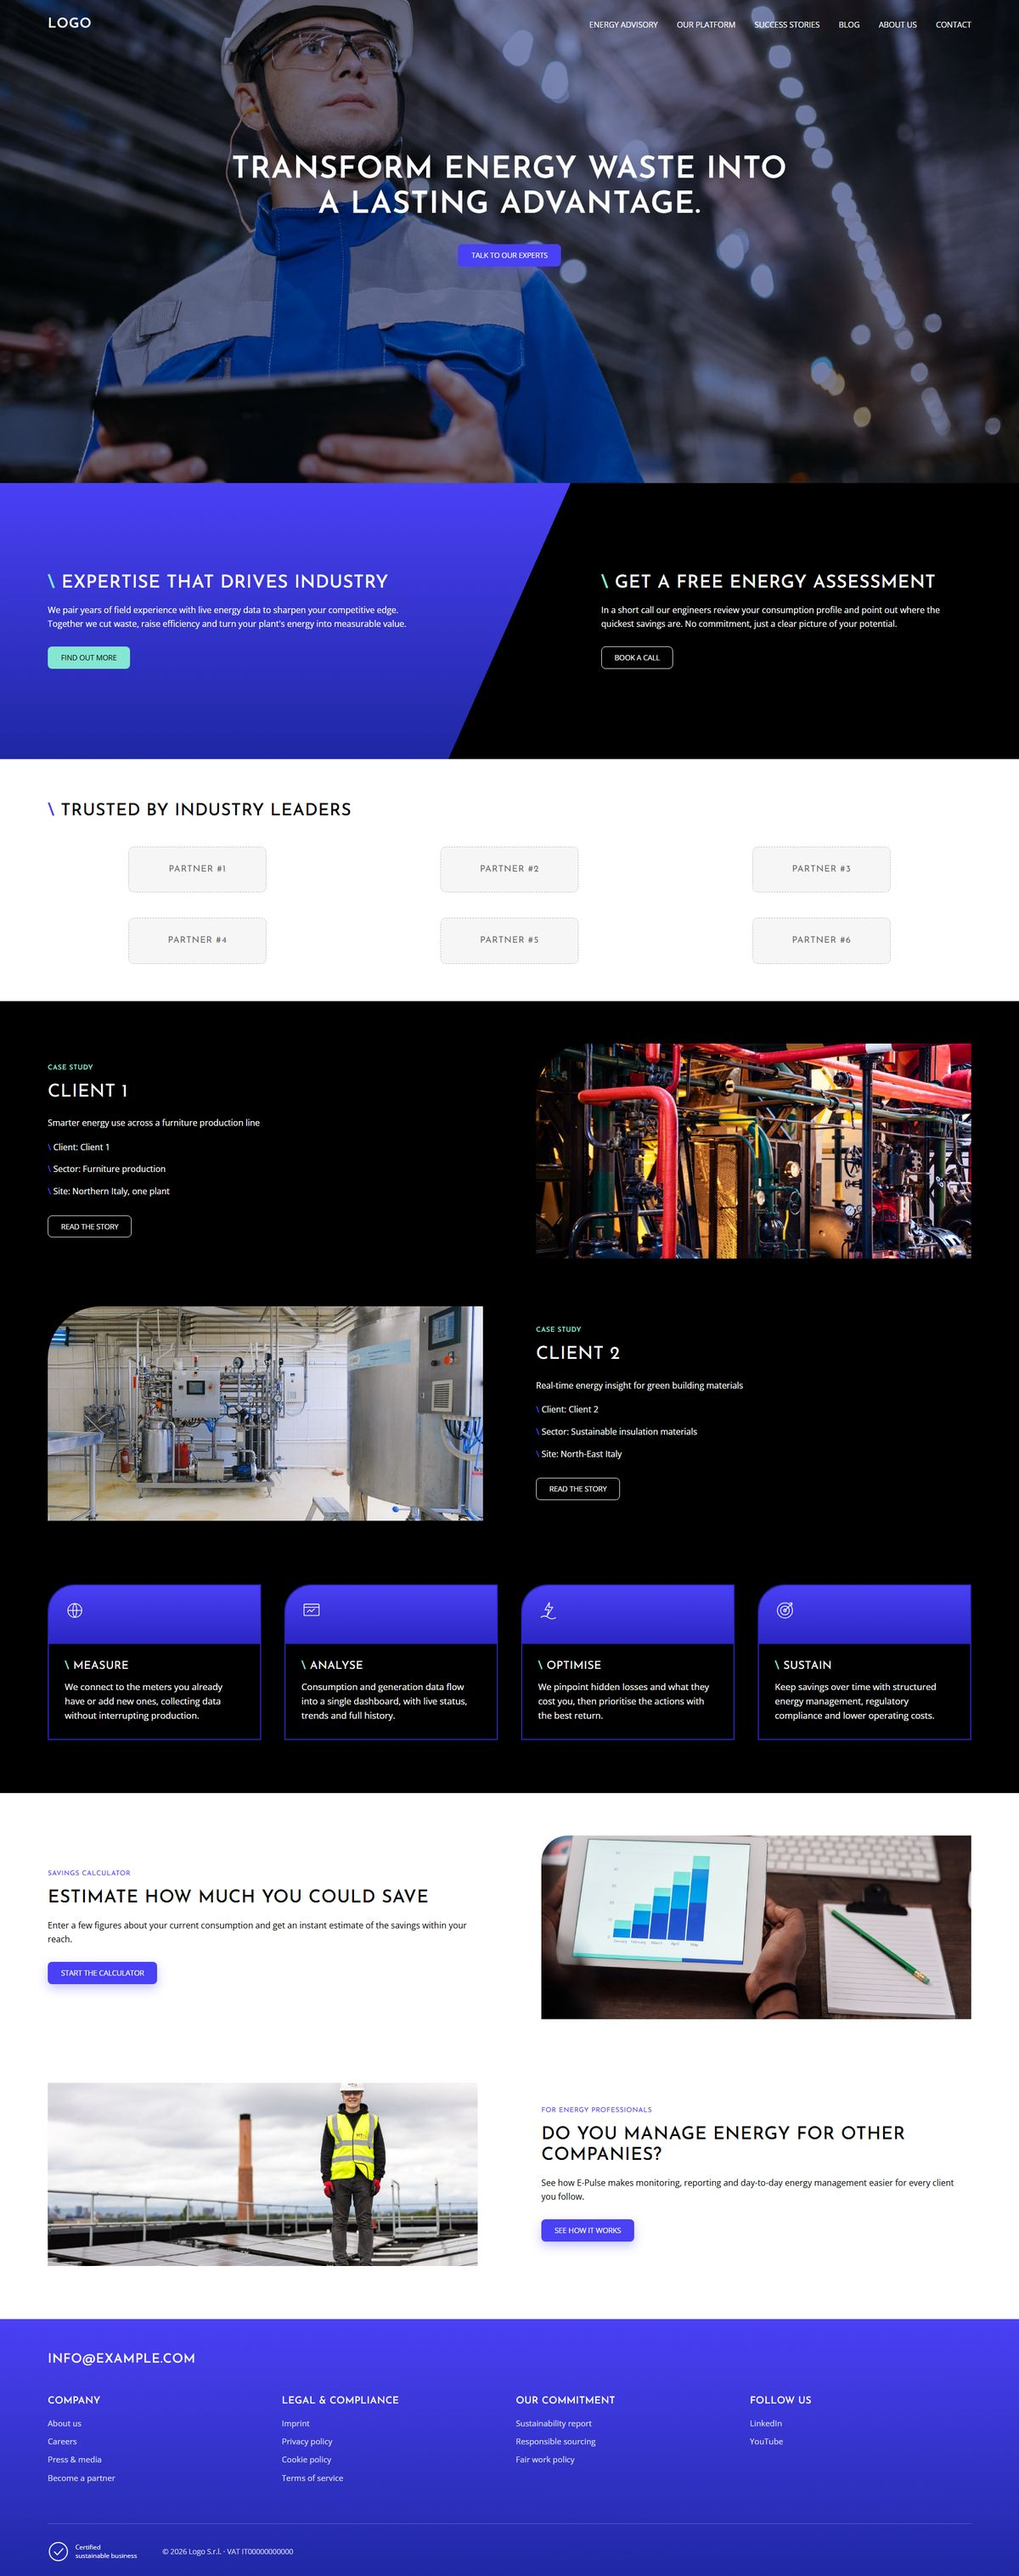
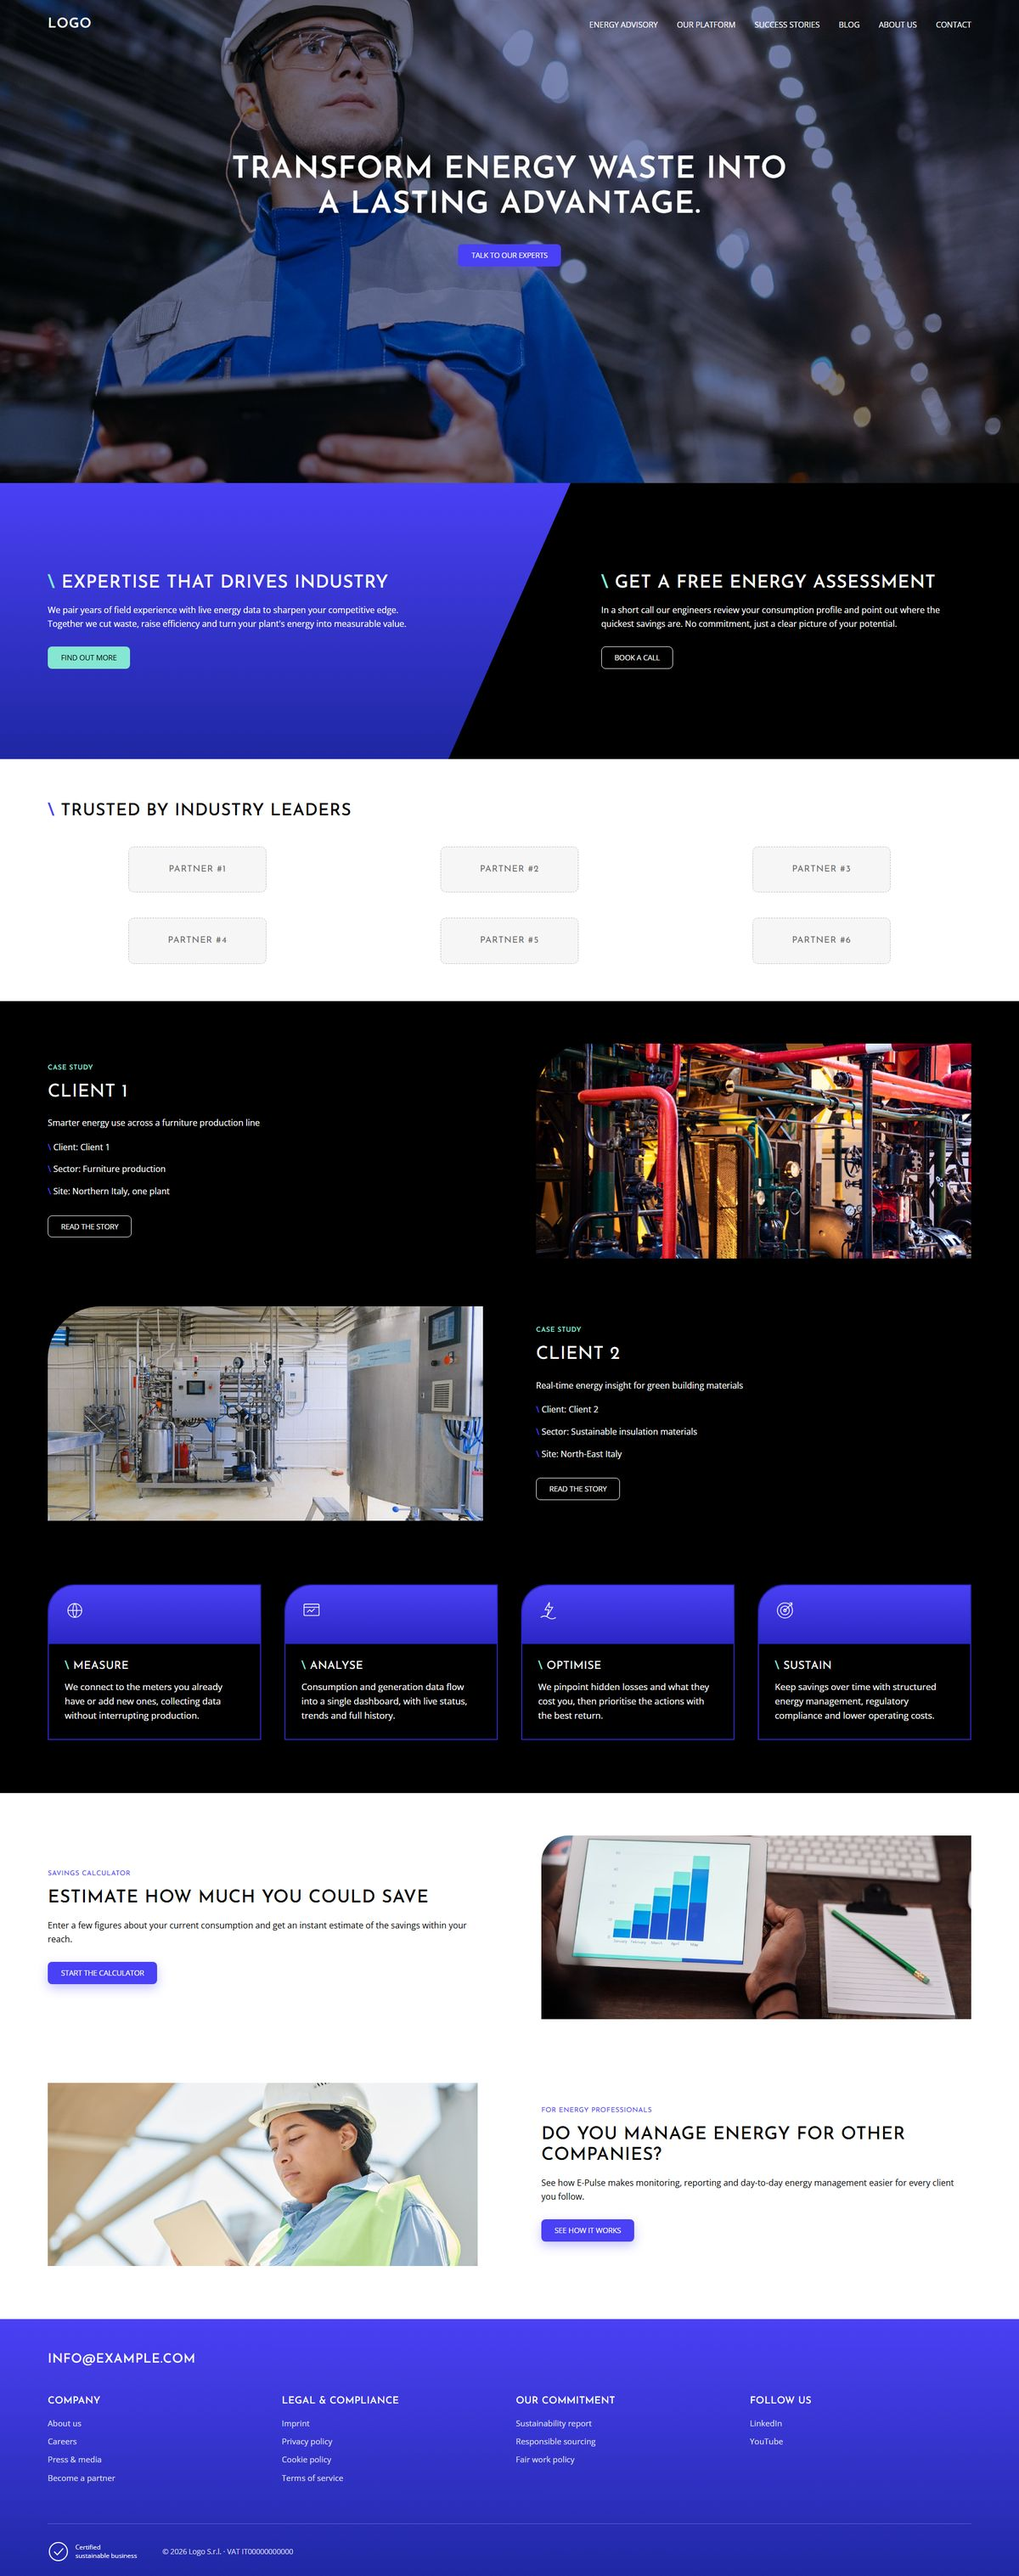
Energy demo: hard-hat engineer photo for the energy professionals block

Changed region(s): [[0.0308, 0.8058, 0.4933, 0.8988]]

diff --git a/energia/assets/css/main.css b/energia/assets/css/main.css
@@ -1,1 +1,1 @@
-*,*::before,*::after{box-sizing:border-box}html{scroll-behavior:smooth}body{margin:0;background:#fff;color:#000;font:400 16px/1.6 "Open Sans",system-ui,sans-serif;-webkit-font-smoothing:antialiased}img{display:block;max-width:100%;height:auto}a{color:inherit}h1,h2,h3{margin:0;font-family:"Josefin Sans",sans-serif;font-weight:500;text-transform:uppercase;letter-spacing:.02em;line-height:1.15}.btn{position:relative;z-index:0;display:inline-flex;align-items:center;overflow:hidden;padding:13px 24px;border:1px solid rgba(0,0,0,0);border-radius:8px;font:400 .85rem/1 "Open Sans",system-ui,sans-serif;text-transform:uppercase;text-decoration:none;transition:transform .3s ease,color .3s ease,background-color .3s ease,border-color .3s ease}.btn::before{content:"";position:absolute;inset:0;z-index:-1;background:linear-gradient(90deg, #85e6d1, #5420ff);opacity:0;transition:opacity .5s}.btn::after{content:"\11 92";display:inline-block;width:0;overflow:hidden;opacity:0;transition:width .3s ease,opacity .3s ease,transform .3s ease}.btn:hover{transform:scale(1.05)}.btn:hover::after{width:20px;opacity:1;transform:translateX(10px)}.btn--violet{background:#4a40f5;color:#fff;box-shadow:0 8px 20px rgba(74,64,245,.3)}.btn--violet:hover{color:#fff}.btn--violet:hover::before{opacity:1}.btn--teal{background:#85e6d1;color:#000}.btn--teal:hover{color:#fff}.btn--teal:hover::before{opacity:1}.btn--outline,.btn--ghost{border-color:#fff;background:rgba(0,0,0,0);color:#fff}.btn--outline::before,.btn--ghost::before{display:none}.btn--outline:hover,.btn--ghost:hover{border-color:#85e6d1;background:#85e6d1;color:#000}.slash::before{content:"\\ ";color:#85e6d1;font-weight:600}.slash--violet::before{color:#4a40f5}.kicker{display:block;margin-bottom:20px;font:600 .8rem/1 "Josefin Sans",sans-serif;letter-spacing:.04em;text-transform:uppercase;color:#85e6d1}.kicker--violet{color:#4a40f5;font-weight:400}.header{position:absolute;inset:0 0 auto;z-index:10;color:#fff}.header__inner{display:flex;align-items:center;justify-content:space-between;padding:28px clamp(20px,4.7vw,90px)}.header__toggle{display:flex;flex-direction:column;gap:5px;padding:10px;border:0;background:none;cursor:pointer}.header__toggle span{width:24px;height:2px;background:#fff}@media(min-width: 1100px){.header__toggle{display:none}}.header__nav{display:none;position:absolute;top:90px;left:0;right:0;flex-direction:column;padding:12px clamp(20px,4.7vw,90px) 20px;background:rgba(0,0,0,.92)}.header__nav.is-open{display:flex}@media(min-width: 1100px){.header__nav{display:flex;position:static;flex-direction:row;gap:36px;padding:0;background:none}}.header__nav a{padding:8px 0;font:400 .92rem "Open Sans",system-ui,sans-serif;text-transform:uppercase;text-decoration:none}.header__nav a:hover{color:#85e6d1}.logo{font:600 1.6rem/1 "Josefin Sans",sans-serif;letter-spacing:.04em;text-transform:uppercase;text-decoration:none}.hero{display:flex;flex-direction:column;align-items:center;justify-content:center;gap:40px;min-height:600px;padding:140px 20px 80px;text-align:center;color:#fff;background:linear-gradient(rgba(10, 30, 110, 0.55), rgba(10, 30, 110, 0.55)),url("../img/hero.jpg") center 30%/cover;background-blend-mode:multiply}@media(min-width: 1100px){.hero{min-height:910px;padding-bottom:260px}}.hero h1{font-size:clamp(2rem,4.2vw,3.6rem);font-weight:600;text-shadow:0 2px 20px rgba(0,0,0,.3)}.insight{display:grid;background:#000}@media(min-width: 1100px){.insight{grid-template-columns:1fr 1fr;min-height:520px}}.insight__panel{display:flex;flex-direction:column;justify-content:center;align-items:flex-start;padding:64px clamp(20px,4.7vw,90px);background:linear-gradient(180deg, #4a40f5, #1e27a2);color:#fff}@media(min-width: 1100px){.insight__panel{grid-column:1/3;grid-row:1;width:56%;padding-right:calc(12% + 3vw);clip-path:polygon(0 0, 100% 0, 78.57% 100%, 0 100%)}}.insight__panel h2{margin-bottom:18px;font-size:clamp(1.5rem,2.2vw,2.1rem)}.insight__panel p{margin:0 0 30px;font-size:1rem}.insight__cta{display:flex;flex-direction:column;justify-content:center;align-items:flex-start;gap:28px;padding:56px clamp(20px,4.7vw,90px)}@media(min-width: 1100px){.insight__cta{grid-column:1/3;grid-row:1;padding:0 clamp(20px,4.7vw,90px) 0 calc(56% + 3vw)}}.insight__cta{color:#fff}.insight__cta h2{font-size:clamp(1.5rem,2.2vw,2.1rem)}.insight__cta p{margin:-10px 0 2px;font-size:1rem}.clients{padding:80px clamp(20px,4.7vw,90px) 70px}.clients h2{margin-bottom:48px;font-size:clamp(1.4rem,2vw,2rem)}.clients__grid{display:grid;grid-template-columns:repeat(2, 1fr);gap:48px 24px;margin:0;padding:0;list-style:none}@media(min-width: 768px){.clients__grid{grid-template-columns:repeat(3, 1fr)}}.partner{display:grid;place-items:center;width:100%;max-width:260px;aspect-ratio:3/1;margin:0 auto;border:1.5px dashed #bdbdbd;border-radius:10px;background:#f6f6f6;font:400 1.05rem/1 "Josefin Sans",sans-serif;letter-spacing:.06em;text-transform:uppercase;color:#6b6b6b}.cases{display:grid;gap:90px;padding:80px clamp(20px,4.7vw,90px) 40px;background:#000;color:#fff}.case{display:grid;gap:32px;align-items:center}@media(min-width: 1100px){.case{grid-template-columns:1fr 1fr;gap:100px}}.case h3{margin-bottom:26px;font-size:2.1rem;font-weight:400}.case p{margin:0 0 20px}.case ul{margin:0 0 32px;padding:0;list-style:none}.case li{margin-bottom:16px}.case li::before{content:"\\ ";color:#4a40f5;font-weight:700}.case__img{width:100%;aspect-ratio:770/380;object-fit:cover;border-top-left-radius:100px}@media(min-width: 1100px){.case--reverse .case__text{order:2}}.case--reverse .kicker{margin-bottom:20px}.process{padding:80px clamp(20px,4.7vw,90px) 100px;background:#000;color:#fff}.process>h2{margin-bottom:18px;font-size:clamp(1.4rem,2vw,2rem)}.process>p{margin:0 0 30px}.process__grid{display:grid;gap:44px;margin-top:0}@media(min-width: 768px){.process__grid{grid-template-columns:repeat(2, 1fr)}}@media(min-width: 1100px){.process__grid{grid-template-columns:repeat(4, 1fr)}}.step{border:2px solid #2a26c4;border-top-left-radius:50px;overflow:hidden}.step__head{height:110px;padding:28px 30px;background:linear-gradient(180deg, #4a40f5, #2a26c4)}.step__head svg{width:38px;height:38px;fill:none;stroke:#fff;stroke-width:1.3}.step h3{margin:30px 30px 14px;font-size:1.3rem;font-weight:400}.step p{margin:0 30px 30px;font-size:1.05rem}.feature{display:grid;gap:36px;align-items:center;padding:80px clamp(20px,4.7vw,90px) 40px}@media(min-width: 1100px){.feature{grid-template-columns:1fr 1fr;gap:120px}}.feature h2{margin-bottom:20px;font-size:clamp(1.5rem,2.2vw,2.1rem)}.feature p{max-width:800px;margin:0 0 30px;font-size:1rem}.feature__img{width:100%;aspect-ratio:820/350;object-fit:cover;border-top-left-radius:50px}.feature--reverse{padding-bottom:100px}@media(min-width: 1100px){.feature--reverse .feature__text{order:2}}.feature--reverse .feature__img{border-radius:0}span.btn{cursor:default}.footer{padding:64px clamp(20px,4.7vw,90px) 40px;background:linear-gradient(180deg, #4a40f5, #1e27a2);color:#fff}.footer__top{display:flex;flex-wrap:wrap;align-items:center;justify-content:space-between;gap:20px;margin-bottom:56px}.footer__mail{font:500 clamp(1.1rem, 1.6vw, 1.5rem)/1 "Josefin Sans",sans-serif;text-transform:uppercase;letter-spacing:.03em}.footer__cols{display:grid;gap:40px 24px}@media(min-width: 768px){.footer__cols{grid-template-columns:repeat(2, 1fr)}}@media(min-width: 1100px){.footer__cols{grid-template-columns:repeat(4, 1fr)}}.footer__cols h2{margin-bottom:18px;font-size:1.15rem;font-weight:500}.footer__cols ul{margin:0;padding:0;list-style:none}.footer__cols li{margin-bottom:10px;font-size:.95rem;color:rgba(255,255,255,.85)}.footer__bottom{display:grid;gap:32px;align-items:center;margin-top:64px;padding-top:32px;border-top:1px solid rgba(255,255,255,.25)}@media(min-width: 1100px){.footer__bottom{grid-template-columns:auto 1fr;gap:48px}}.footer__bottom>p{margin:0;font-size:.85rem;color:rgba(255,255,255,.8)}.footer__badge{display:flex;align-items:center;gap:12px;font-size:.75rem;line-height:1.3}.footer__badge svg{width:40px;height:40px;fill:none;stroke:#fff;stroke-width:2}
+*,*::before,*::after{box-sizing:border-box}html{scroll-behavior:smooth}body{margin:0;background:#fff;color:#000;font:400 16px/1.6 "Open Sans",system-ui,sans-serif;-webkit-font-smoothing:antialiased}img{display:block;max-width:100%;height:auto}a{color:inherit}h1,h2,h3{margin:0;font-family:"Josefin Sans",sans-serif;font-weight:500;text-transform:uppercase;letter-spacing:.02em;line-height:1.15}.btn{position:relative;z-index:0;display:inline-flex;align-items:center;overflow:hidden;padding:13px 24px;border:1px solid rgba(0,0,0,0);border-radius:8px;font:400 .85rem/1 "Open Sans",system-ui,sans-serif;text-transform:uppercase;text-decoration:none;transition:transform .3s ease,color .3s ease,background-color .3s ease,border-color .3s ease}.btn::before{content:"";position:absolute;inset:0;z-index:-1;background:linear-gradient(90deg, #85e6d1, #5420ff);opacity:0;transition:opacity .5s}.btn::after{content:"\11 92";display:inline-block;width:0;overflow:hidden;opacity:0;transition:width .3s ease,opacity .3s ease,transform .3s ease}.btn:hover{transform:scale(1.05)}.btn:hover::after{width:20px;opacity:1;transform:translateX(10px)}.btn--violet{background:#4a40f5;color:#fff;box-shadow:0 8px 20px rgba(74,64,245,.3)}.btn--violet:hover{color:#fff}.btn--violet:hover::before{opacity:1}.btn--teal{background:#85e6d1;color:#000}.btn--teal:hover{color:#fff}.btn--teal:hover::before{opacity:1}.btn--outline,.btn--ghost{border-color:#fff;background:rgba(0,0,0,0);color:#fff}.btn--outline::before,.btn--ghost::before{display:none}.btn--outline:hover,.btn--ghost:hover{border-color:#85e6d1;background:#85e6d1;color:#000}.slash::before{content:"\\ ";color:#85e6d1;font-weight:600}.slash--violet::before{color:#4a40f5}.kicker{display:block;margin-bottom:20px;font:600 .8rem/1 "Josefin Sans",sans-serif;letter-spacing:.04em;text-transform:uppercase;color:#85e6d1}.kicker--violet{color:#4a40f5;font-weight:400}.header{position:absolute;inset:0 0 auto;z-index:10;color:#fff}.header__inner{display:flex;align-items:center;justify-content:space-between;padding:28px clamp(20px,4.7vw,90px)}.header__toggle{display:flex;flex-direction:column;gap:5px;padding:10px;border:0;background:none;cursor:pointer}.header__toggle span{width:24px;height:2px;background:#fff}@media(min-width: 1100px){.header__toggle{display:none}}.header__nav{display:none;position:absolute;top:90px;left:0;right:0;flex-direction:column;padding:12px clamp(20px,4.7vw,90px) 20px;background:rgba(0,0,0,.92)}.header__nav.is-open{display:flex}@media(min-width: 1100px){.header__nav{display:flex;position:static;flex-direction:row;gap:36px;padding:0;background:none}}.header__nav a{padding:8px 0;font:400 .92rem "Open Sans",system-ui,sans-serif;text-transform:uppercase;text-decoration:none}.header__nav a:hover{color:#85e6d1}.logo{font:600 1.6rem/1 "Josefin Sans",sans-serif;letter-spacing:.04em;text-transform:uppercase;text-decoration:none}.hero{display:flex;flex-direction:column;align-items:center;justify-content:center;gap:40px;min-height:600px;padding:140px 20px 80px;text-align:center;color:#fff;background:linear-gradient(rgba(10, 30, 110, 0.55), rgba(10, 30, 110, 0.55)),url("../img/hero.jpg") center 30%/cover;background-blend-mode:multiply}@media(min-width: 1100px){.hero{min-height:910px;padding-bottom:260px}}.hero h1{font-size:clamp(2rem,4.2vw,3.6rem);font-weight:600;text-shadow:0 2px 20px rgba(0,0,0,.3)}.insight{display:grid;background:#000}@media(min-width: 1100px){.insight{grid-template-columns:1fr 1fr;min-height:520px}}.insight__panel{display:flex;flex-direction:column;justify-content:center;align-items:flex-start;padding:64px clamp(20px,4.7vw,90px);background:linear-gradient(180deg, #4a40f5, #1e27a2);color:#fff}@media(min-width: 1100px){.insight__panel{grid-column:1/3;grid-row:1;width:56%;padding-right:calc(12% + 3vw);clip-path:polygon(0 0, 100% 0, 78.57% 100%, 0 100%)}}.insight__panel h2{margin-bottom:18px;font-size:clamp(1.5rem,2.2vw,2.1rem)}.insight__panel p{margin:0 0 30px;font-size:1rem}.insight__cta{display:flex;flex-direction:column;justify-content:center;align-items:flex-start;gap:28px;padding:56px clamp(20px,4.7vw,90px)}@media(min-width: 1100px){.insight__cta{grid-column:1/3;grid-row:1;padding:0 clamp(20px,4.7vw,90px) 0 calc(56% + 3vw)}}.insight__cta{color:#fff}.insight__cta h2{font-size:clamp(1.5rem,2.2vw,2.1rem)}.insight__cta p{margin:-10px 0 2px;font-size:1rem}.clients{padding:80px clamp(20px,4.7vw,90px) 70px}.clients h2{margin-bottom:48px;font-size:clamp(1.4rem,2vw,2rem)}.clients__grid{display:grid;grid-template-columns:repeat(2, 1fr);gap:48px 24px;margin:0;padding:0;list-style:none}@media(min-width: 768px){.clients__grid{grid-template-columns:repeat(3, 1fr)}}.partner{display:grid;place-items:center;width:100%;max-width:260px;aspect-ratio:3/1;margin:0 auto;border:1.5px dashed #bdbdbd;border-radius:10px;background:#f6f6f6;font:400 1.05rem/1 "Josefin Sans",sans-serif;letter-spacing:.06em;text-transform:uppercase;color:#6b6b6b}.cases{display:grid;gap:90px;padding:80px clamp(20px,4.7vw,90px) 40px;background:#000;color:#fff}.case{display:grid;gap:32px;align-items:center}@media(min-width: 1100px){.case{grid-template-columns:1fr 1fr;gap:100px}}.case h3{margin-bottom:26px;font-size:2.1rem;font-weight:400}.case p{margin:0 0 20px}.case ul{margin:0 0 32px;padding:0;list-style:none}.case li{margin-bottom:16px}.case li::before{content:"\\ ";color:#4a40f5;font-weight:700}.case__img{width:100%;aspect-ratio:770/380;object-fit:cover;border-top-left-radius:100px}@media(min-width: 1100px){.case--reverse .case__text{order:2}}.case--reverse .kicker{margin-bottom:20px}.process{padding:80px clamp(20px,4.7vw,90px) 100px;background:#000;color:#fff}.process>h2{margin-bottom:18px;font-size:clamp(1.4rem,2vw,2rem)}.process>p{margin:0 0 30px}.process__grid{display:grid;gap:44px;margin-top:0}@media(min-width: 768px){.process__grid{grid-template-columns:repeat(2, 1fr)}}@media(min-width: 1100px){.process__grid{grid-template-columns:repeat(4, 1fr)}}.step{border:2px solid #2a26c4;border-top-left-radius:50px;overflow:hidden}.step__head{height:110px;padding:28px 30px;background:linear-gradient(180deg, #4a40f5, #2a26c4)}.step__head svg{width:38px;height:38px;fill:none;stroke:#fff;stroke-width:1.3}.step h3{margin:30px 30px 14px;font-size:1.3rem;font-weight:400}.step p{margin:0 30px 30px;font-size:1.05rem}.feature{display:grid;gap:36px;align-items:center;padding:80px clamp(20px,4.7vw,90px) 40px}@media(min-width: 1100px){.feature{grid-template-columns:1fr 1fr;gap:120px}}.feature h2{margin-bottom:20px;font-size:clamp(1.5rem,2.2vw,2.1rem)}.feature p{max-width:800px;margin:0 0 30px;font-size:1rem}.feature__img{width:100%;aspect-ratio:820/350;object-fit:cover;border-top-left-radius:50px}.feature--reverse{padding-bottom:100px}@media(min-width: 1100px){.feature--reverse .feature__text{order:2}}.feature--reverse .feature__img{border-radius:0;object-position:center 15%}span.btn{cursor:default}.footer{padding:64px clamp(20px,4.7vw,90px) 40px;background:linear-gradient(180deg, #4a40f5, #1e27a2);color:#fff}.footer__top{display:flex;flex-wrap:wrap;align-items:center;justify-content:space-between;gap:20px;margin-bottom:56px}.footer__mail{font:500 clamp(1.1rem, 1.6vw, 1.5rem)/1 "Josefin Sans",sans-serif;text-transform:uppercase;letter-spacing:.03em}.footer__cols{display:grid;gap:40px 24px}@media(min-width: 768px){.footer__cols{grid-template-columns:repeat(2, 1fr)}}@media(min-width: 1100px){.footer__cols{grid-template-columns:repeat(4, 1fr)}}.footer__cols h2{margin-bottom:18px;font-size:1.15rem;font-weight:500}.footer__cols ul{margin:0;padding:0;list-style:none}.footer__cols li{margin-bottom:10px;font-size:.95rem;color:rgba(255,255,255,.85)}.footer__bottom{display:grid;gap:32px;align-items:center;margin-top:64px;padding-top:32px;border-top:1px solid rgba(255,255,255,.25)}@media(min-width: 1100px){.footer__bottom{grid-template-columns:auto 1fr;gap:48px}}.footer__bottom>p{margin:0;font-size:.85rem;color:rgba(255,255,255,.8)}.footer__badge{display:flex;align-items:center;gap:12px;font-size:.75rem;line-height:1.3}.footer__badge svg{width:40px;height:40px;fill:none;stroke:#fff;stroke-width:2}

diff --git a/energia/index.html b/energia/index.html
@@ -131,7 +131,7 @@
         <p>See how E-Pulse makes monitoring, reporting and day-to-day energy management easier for every client you follow.</p>
         <span class="btn btn--violet">See how it works</span>
       </div>
-      <img class="feature__img" src="assets/img/energy-manager.jpg" alt="Engineer standing among solar panels on a rooftop" width="1200" height="800" loading="lazy">
+      <img class="feature__img" src="assets/img/energy-manager.jpg" alt="Engineer with a hard hat checking data on a tablet" width="1200" height="800" loading="lazy">
     </section>
   </main>
 

diff --git a/energia/assets/scss/main.scss b/energia/assets/scss/main.scss
@@ -327,7 +327,7 @@ h1, h2, h3 { margin: 0; font-family: $head; font-weight: 500; text-transform: up
       .feature__text { order: 2; }
     }
 
-    .feature__img { border-radius: 0; }
+    .feature__img { border-radius: 0; object-position: center 15%; }
   }
 }
 
